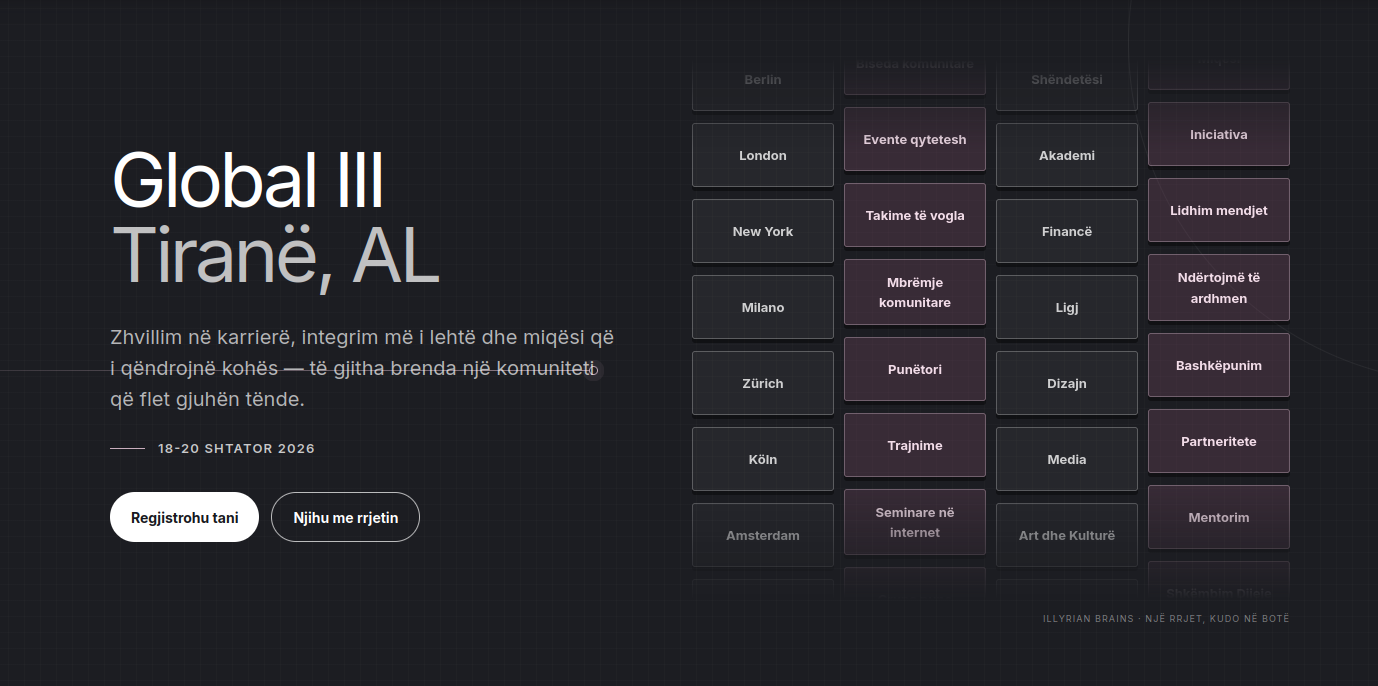
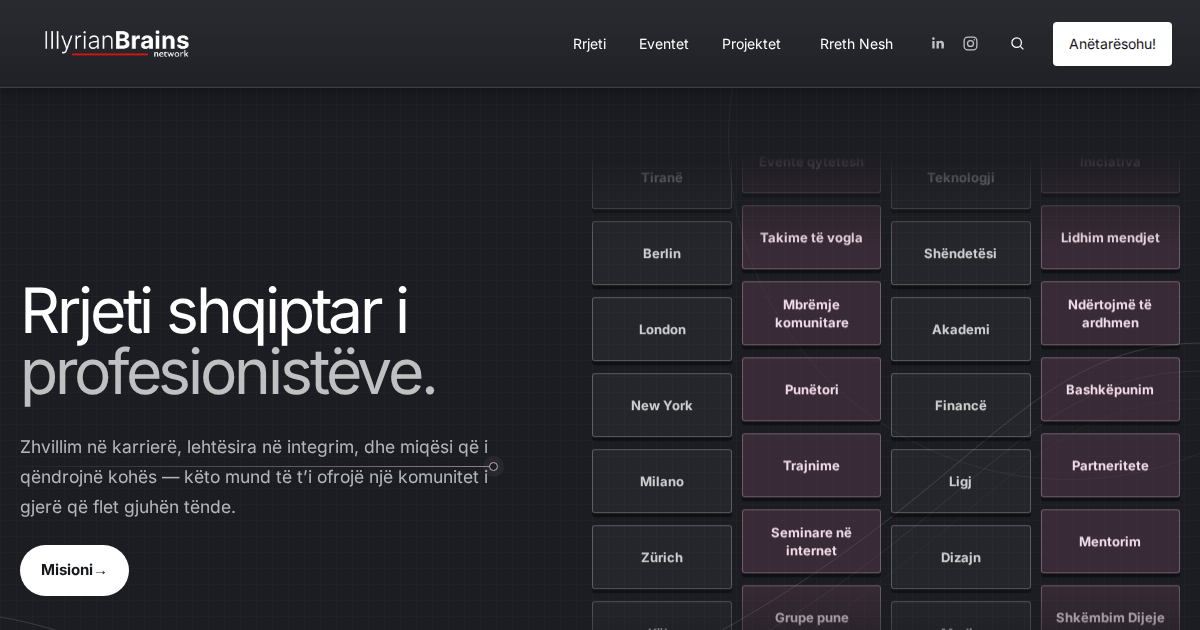
Website minimal card fixes

diff --git a/src/styles/global.css b/src/styles/global.css
@@ -38,8 +38,11 @@ body:has(.visit-page) .site-header::after { content: ''; position: absolute; lef
 .nav > a:not(.nav-cta):hover::after { right: 0; }
 .nav-cta { background: #fff; color: var(--ink); border-radius: 4px; padding: 10px 16px; transition: color .2s ease, background .2s ease; }
 .nav-cta:hover { background: #e9e7e8; }
+.nav-meta { display: flex; align-items: center; gap: 20px; }
 .social-links { display: flex; align-items: center; gap: 8px; }
 .site-search-open { display:flex;align-items:center;gap:7px;padding:9px 0;border:0;color:#fff;background:none;font:600 13px var(--font-body);cursor:pointer}.site-search-open svg,.site-search-field svg{fill:none;stroke:currentColor;stroke-width:1.8}.site-search-open svg{width:17px;height:17px}.site-search-overlay{position:fixed;inset:0;z-index:200;display:grid;place-items:start center;padding:clamp(90px,13vh,150px) 20px 30px;background:rgba(10,11,14,.76);backdrop-filter:blur(10px)}.site-search-overlay[hidden]{display:none}.site-search-dialog{width:min(720px,100%);max-height:min(720px,calc(100vh - 130px));overflow:auto;padding:32px;border:1px solid rgba(255,255,255,.13);border-radius:18px;color:var(--ink);background:#fff;box-shadow:0 30px 90px rgba(0,0,0,.35)}.site-search-top{display:flex;justify-content:space-between;gap:30px;align-items:start}.site-search-kicker{margin:0 0 8px;color:var(--accent);font-size:11px;font-weight:700;letter-spacing:.13em;text-transform:uppercase}.site-search-top h2{margin:0;font-size:clamp(30px,5vw,45px);font-weight:400;letter-spacing:-.035em}.site-search-close{width:38px;height:38px;border:1px solid var(--line);border-radius:50%;color:var(--ink);background:#fff;cursor:pointer}.site-search-field{display:grid;grid-template-columns:23px 1fr;gap:12px;align-items:center;margin-top:28px;padding:15px 18px;border:1px solid #b8b8bd;border-radius:9px}.site-search-field:focus-within{border-color:var(--accent);box-shadow:0 0 0 3px rgba(116,71,97,.1)}.site-search-field svg{width:22px;height:22px;color:var(--accent)}.site-search-field input{min-width:0;border:0;outline:0;color:var(--ink);background:transparent;font:500 16px var(--font-body)}.site-search-status{margin:15px 2px 8px;color:var(--muted);font-size:13px}.site-search-results{display:grid}.site-search-result{display:flex;align-items:center;justify-content:space-between;gap:20px;padding:15px 4px;border-bottom:1px solid var(--line);transition:padding .18s ease,color .18s ease}.site-search-result:hover{padding-inline:10px;color:var(--accent-dark)}.site-search-result span,.site-search-result strong,.site-search-result small{display:block}.site-search-result strong{font-size:16px}.site-search-result small{margin-top:4px;color:var(--muted);font-size:11px;text-transform:uppercase;letter-spacing:.08em}.site-search-result b{color:var(--accent);font-size:17px;font-weight:400}
+.site-search-person{width:100%;border:0;border-bottom:1px solid var(--line);color:var(--ink);background:none;font:inherit;text-align:left;cursor:pointer}.site-search-profile{margin-top:12px;padding:24px;border:1px solid var(--line);border-radius:14px;background:var(--soft)}.site-search-profile-back{margin:0 0 24px;padding:0;border:0;color:var(--accent-dark);background:none;font:700 12px var(--font-body);cursor:pointer}.site-search-profile-head{display:flex;align-items:center;gap:18px}.site-search-profile-head>img,.site-search-profile-head>span{width:72px;height:72px;flex:0 0 auto;border-radius:50%;object-fit:cover}.site-search-profile-head>span{display:grid;place-items:center;color:#fff;background:var(--accent);font-size:18px;font-weight:800}.site-search-profile-head small{color:var(--accent);font-size:9px;font-weight:800;text-transform:uppercase;letter-spacing:.11em}.site-search-profile-head h3{margin:3px 0 2px;font-size:27px;font-weight:500;line-height:1.15}.site-search-profile-head p{margin:0;color:var(--muted);font-size:12px}.site-search-profile-meta{display:flex;flex-wrap:wrap;gap:7px;margin:24px 0}.site-search-profile-meta span{padding:6px 9px;border:1px solid var(--line);border-radius:999px;color:var(--muted);background:#fff;font-size:10px;font-weight:700}
+.site-search-profile-bio{margin:24px 0 0;color:var(--ink);font-size:14px;line-height:1.7;white-space:pre-line}.site-search-profile-actions{display:flex;flex-wrap:wrap;gap:10px}.site-search-profile-actions .partner-button{margin:0}
 .social-link { width: 24px; height: 34px; display: grid; place-items: center; background: transparent; opacity: .72; transition: opacity .2s ease, transform .2s ease; }
 .social-link:hover { opacity: 1; transform: translateY(-2px); }
 .social-link svg { width: 17px; height: 17px; fill: #fff; stroke: none; }
@@ -48,9 +51,12 @@ body:has(.visit-page) .site-header::after { content: ''; position: absolute; lef
 .nav-toggle { display: none; flex-direction: column; justify-content: center; gap: 5px; width: 34px; height: 34px; padding: 0; border: 0; background: none; cursor: pointer; }
 .nav-toggle span { display: block; width: 100%; height: 2px; background: #fff; border-radius: 2px; }
 .nav-item.dropdown { position: relative; }
-.dropdown-toggle { position: relative; padding-block: 10px; border: 0; background: none; color: #fff; font: inherit; font-size: 13px; cursor: pointer; transition: color .2s ease; }
+.dropdown-toggle { display: inline-flex; align-items: center; gap: 5px; position: relative; padding-block: 10px; border: 0; background: none; color: #fff; font: inherit; font-size: 13px; cursor: pointer; transition: color .2s ease; }
 .dropdown-toggle::after { content: ''; position: absolute; left: 0; right: 100%; bottom: 4px; height: 1px; background: #c9aebd; transition: right .25s ease; }
 .dropdown-toggle:hover::after, .nav-item.dropdown.open .dropdown-toggle::after { right: 0; }
+.nav-caret { display: grid; place-items: center; width: 13px; height: 13px; flex: 0 0 auto; color: rgba(255,255,255,.6); transition: transform .2s ease; }
+.nav-caret svg { width: 11px; height: 11px; fill: none; stroke: currentColor; stroke-width: 2.4; stroke-linecap: round; stroke-linejoin: round; }
+.nav-item.dropdown:hover .nav-caret, .nav-item.dropdown.open .nav-caret { transform: rotate(180deg); color: #fff; }
 .dropdown-menu { position: absolute; top: 100%; left: 0; z-index: 10; min-width: 170px; margin: 8px 0 0; padding: 8px; list-style: none; border-radius: 8px; background: #1c1d22; border: 1px solid rgba(255,255,255,.12); box-shadow: 0 18px 32px rgba(0,0,0,.28); opacity: 0; visibility: hidden; transform: translateY(-6px); transition: .18s ease; }
 .nav-item.dropdown:hover .dropdown-menu, .nav-item.dropdown.open .dropdown-menu { opacity: 1; visibility: visible; transform: translateY(0); }
 .dropdown-menu a { display: block; padding: 9px 10px; border-radius: 6px; color: #fff; font-size: 13px; }
@@ -923,6 +929,36 @@ stripe-buy-button { display: block; }
 .member-drawer-section { margin-top: 18px; padding-top: 16px; border-top: 1px solid var(--line); }
 .member-drawer-section h4 { margin: 0 0 8px; font-size: 11px; text-transform: uppercase; letter-spacing: .08em; color: var(--muted); }
 .member-drawer-section p { margin: 0; color: var(--ink); font-size: 14px; line-height: 1.6; }
+#anetaret .member-grid { grid-template-columns: repeat(auto-fill, minmax(270px, 1fr)); gap: 16px; }
+#anetaret .member-card { min-height: 180px; padding: 20px; border-radius: 14px; background: #fff; box-shadow: 0 10px 28px rgba(23,24,29,.04); }
+#anetaret .member-card-top { gap: 13px; }
+#anetaret .member-avatar { width: 52px; height: 52px; font-size: 14px; }
+#anetaret .member-card-name { font-size: 16px; }
+#anetaret .member-card-role { margin-top: 4px; font-size: 13px; }
+#anetaret .member-card-meta { margin-top: 6px; }
+.member-card-action { display: flex; align-items: center; justify-content: space-between; margin-top: auto; padding-top: 16px; border-top: 1px solid var(--line); color: var(--accent-dark); font-size: 12px; font-weight: 700; }
+.member-drawer { width: min(520px, 100%); }
+.member-drawer-inner { padding: 42px 36px; }
+.member-drawer-avatar { width: 104px; height: 104px; }
+.member-drawer-inner h2 { font-size: 30px; }
+.member-drawer-bio { margin: 26px 0; color: var(--ink); font-size: 15px; line-height: 1.8; white-space: pre-line; }
+.member-drawer-actions { display: flex; flex-wrap: wrap; gap: 10px; margin-top: 24px; }
+.member-drawer-actions .partner-button { margin: 0; }
+@media (max-width: 480px) {
+  #anetaret .member-grid { grid-template-columns: 1fr; }
+  #anetaret .member-card { min-height: 0; gap: 12px; padding: 16px; }
+  #anetaret .member-avatar { width: 46px; height: 46px; }
+  #anetaret .member-card-meta { gap: 6px; margin-top: 2px; }
+  #anetaret .member-pill { padding: 4px 8px; font-size: 10px; }
+  #anetaret .member-card-action { padding-top: 12px; }
+  .member-drawer { width: 100%; }
+  .member-drawer-inner { padding: 28px 20px calc(28px + env(safe-area-inset-bottom)); }
+  .member-drawer-close { top: 14px; right: 14px; width: 40px; height: 40px; }
+  .member-drawer-avatar { width: 82px; height: 82px; }
+  .member-drawer-inner h2 { padding-right: 42px; font-size: 25px; }
+  .member-drawer-actions { display: grid; }
+  .member-drawer-actions .partner-button { justify-content: space-between; width: 100%; }
+}
 
 @media (prefers-reduced-motion: reduce) {
   html { scroll-behavior: auto; }
@@ -947,14 +983,14 @@ stripe-buy-button { display: block; }
   .nav.nav-open { transform: translateY(0); opacity: 1; visibility: visible; }
   .nav > a:not(.nav-cta) { display: block; padding: 14px 0; border-bottom: 1px solid rgba(255,255,255,.12); }
   .nav > a:not(.nav-cta)::after { display: none; }
-  .dropdown-toggle { display: block; width: 100%; padding: 14px 0; text-align: left; border-bottom: 1px solid rgba(255,255,255,.12); }
+  .dropdown-toggle { display: flex; align-items: center; justify-content: space-between; width: 100%; padding: 14px 0; text-align: left; border-bottom: 1px solid rgba(255,255,255,.12); }
   .dropdown-toggle::after { display: none; }
   .dropdown-menu { position: static; display: none; margin: 0; padding: 4px 0 4px 16px; background: none; border: 0; box-shadow: none; opacity: 1; visibility: visible; transform: none; }
   .nav-item.dropdown.open .dropdown-menu { display: block; }
   .dropdown-menu a { padding: 12px 0; border-bottom: 1px solid rgba(255,255,255,.08); border-radius: 0; }
   .nav-cta { align-self: stretch; margin-top: 14px; text-align: center; }
-  .social-links { padding: 16px 0 4px; }
-  .site-search-open{width:100%;padding:14px 0;border-bottom:1px solid rgba(255,255,255,.12)}
+  .nav-meta { justify-content: space-between; padding: 16px 0 4px; border-bottom: 1px solid rgba(255,255,255,.12); }
+  .site-search-open{padding:14px 0}
   .social-link { width: 40px; height: 40px; }
   .hero-inner, .split { grid-template-columns: 1fr; }
   .hero-line { display: none; }

diff --git a/src/data/members.ts b/src/data/members.ts
@@ -9,6 +9,10 @@ export interface Member {
   city?: string;
   country?: string;
   fieldsOfExpertise?: string[];
+  bio?: string;
+  title?: string;
+  website?: string;
+  profileSynced?: boolean;
   since: number;
   avatar?: string;
   groups: string[];
